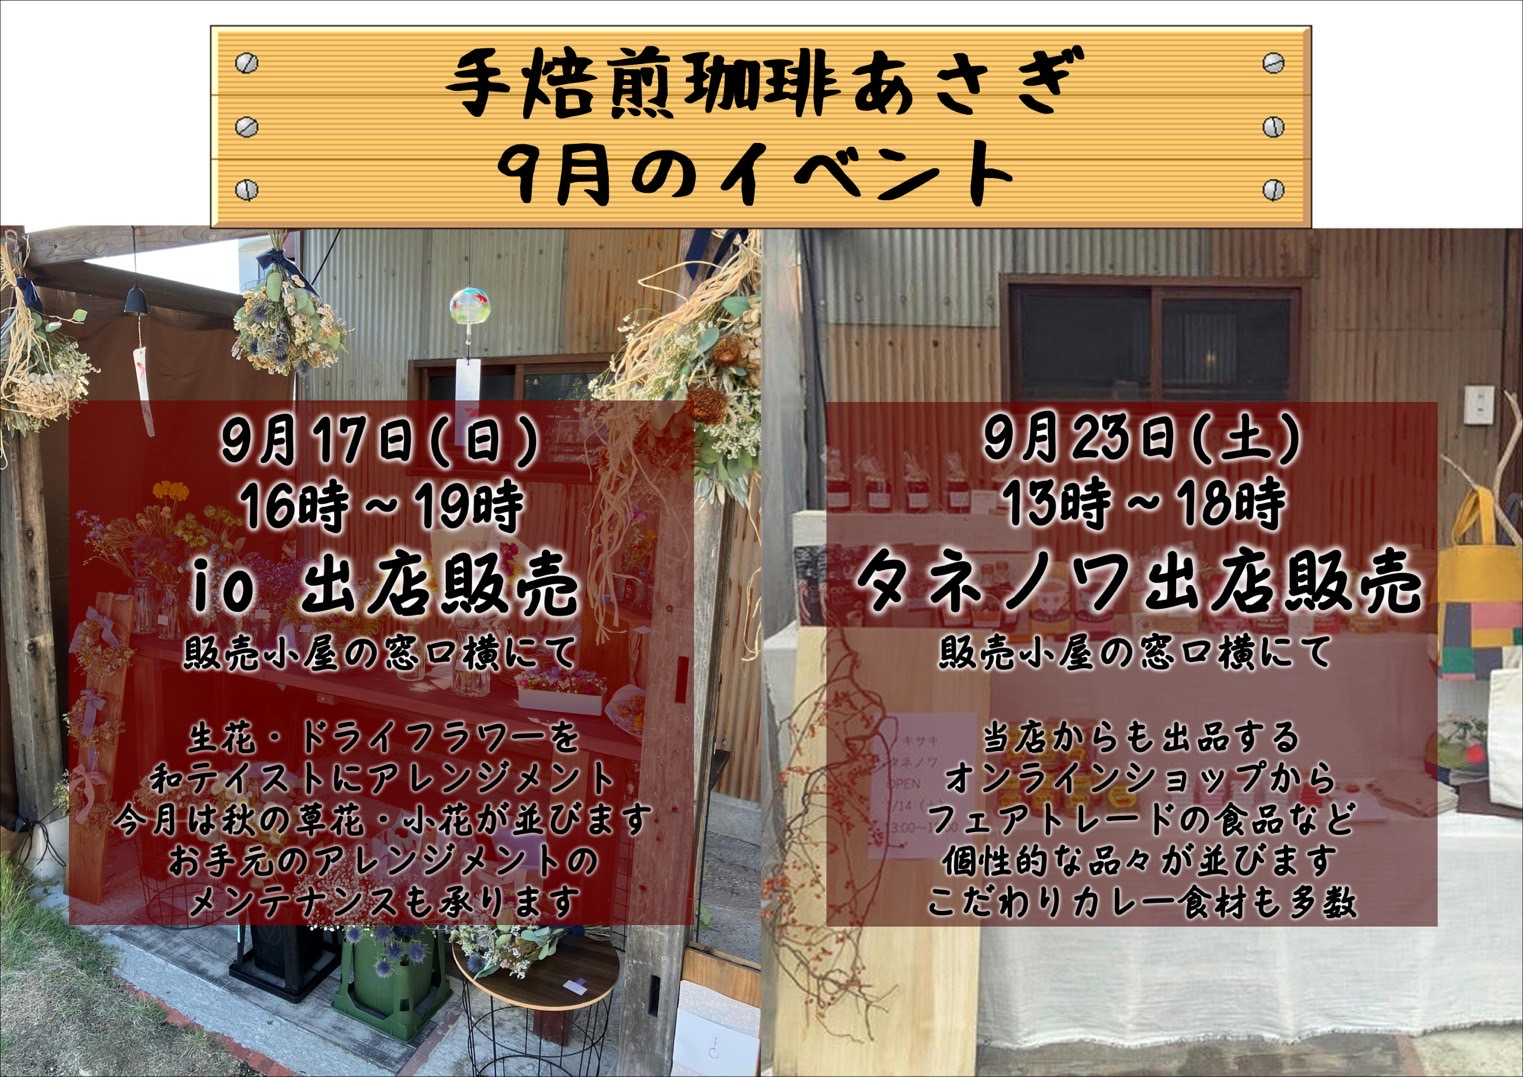
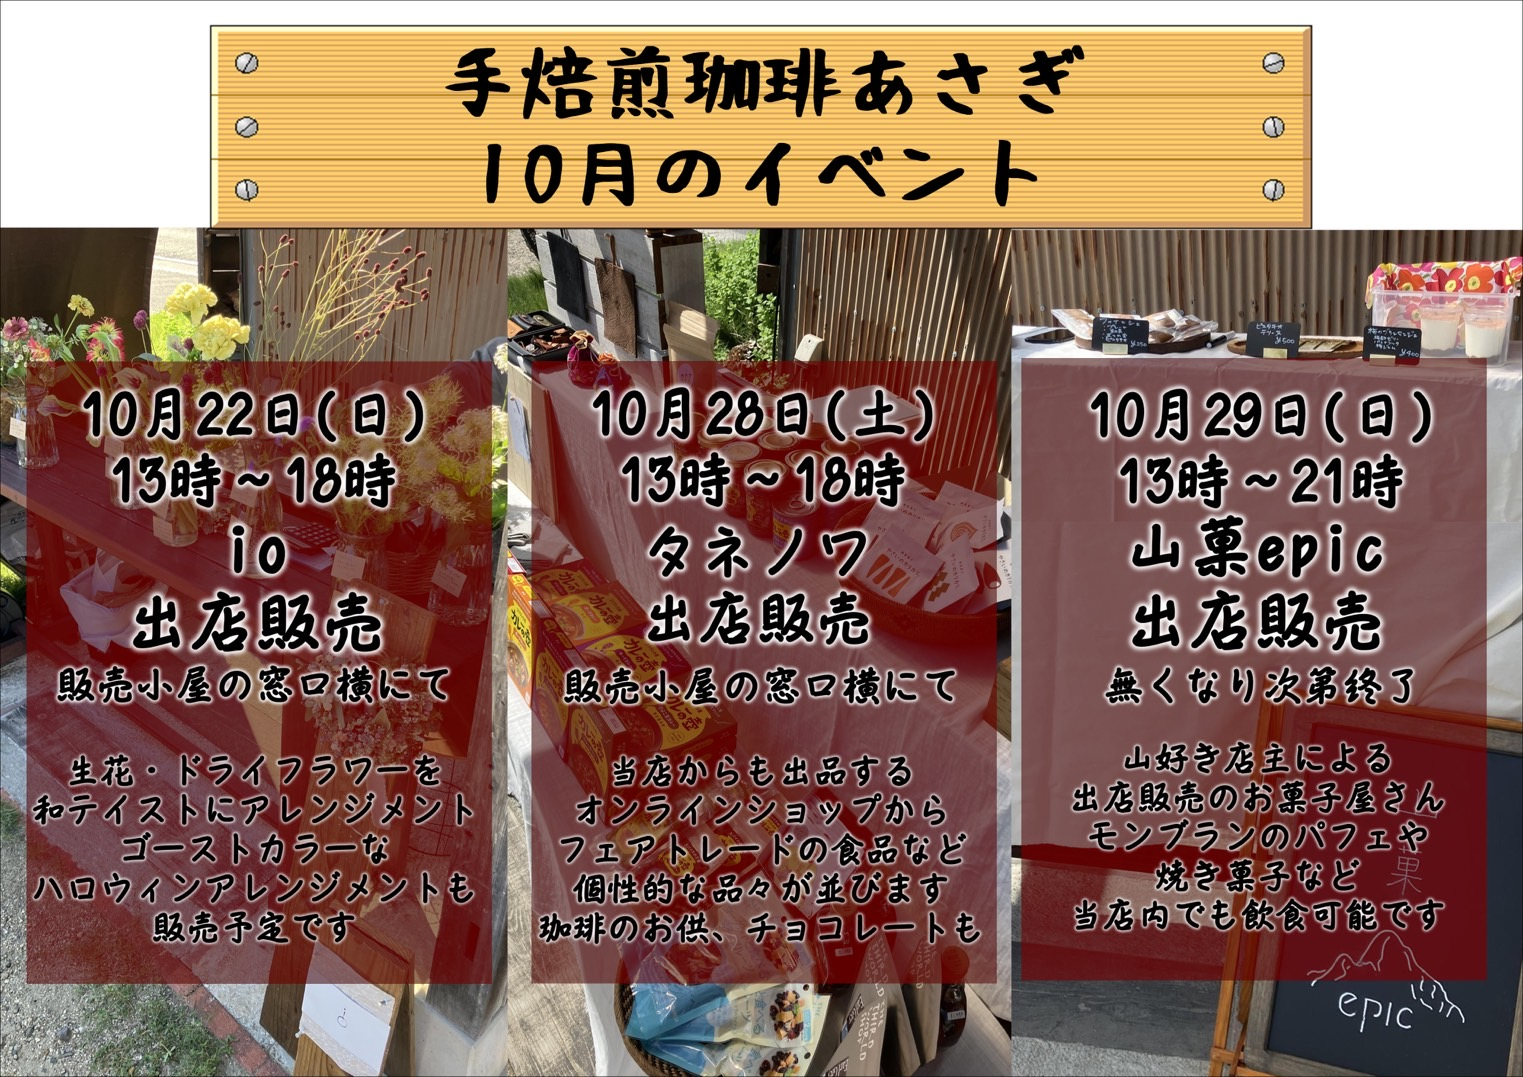
2301カレンダー、イベント、季節替わり銘柄

diff --git a/bean.html b/bean.html
@@ -104,6 +104,11 @@
                     <img src="img/23fall.jpg" width="100%">
                 </a>
             </div>
+            <div class="eventbox">
+                <a href="img/23fall2.jpg" data-lightbox="group">
+                    <img src="img/23fall2.jpg" width="100%">
+                </a>
+            </div>
         </div>
 
         <div id="colum">
